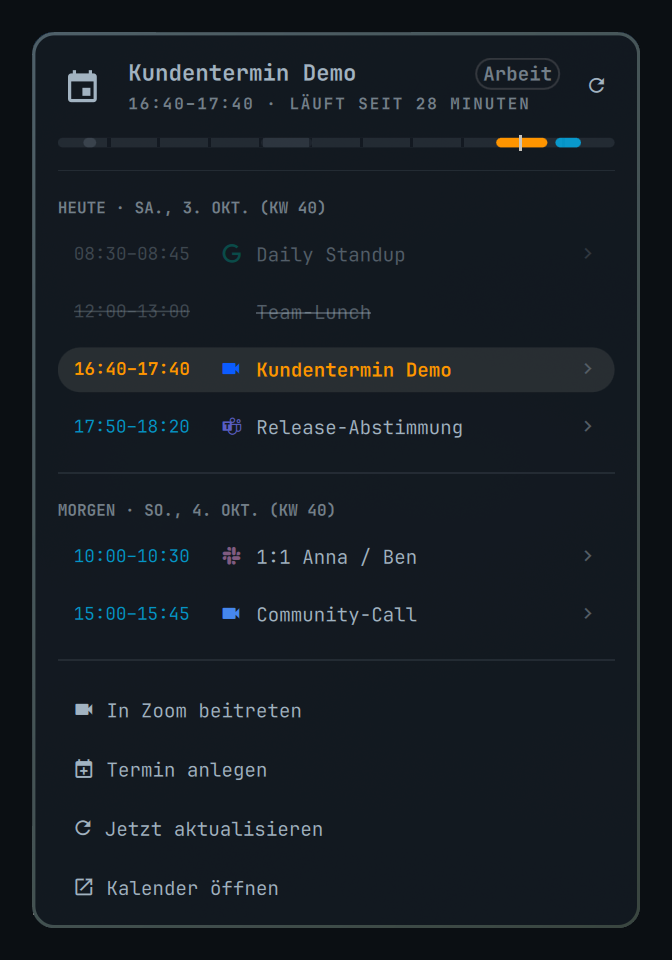
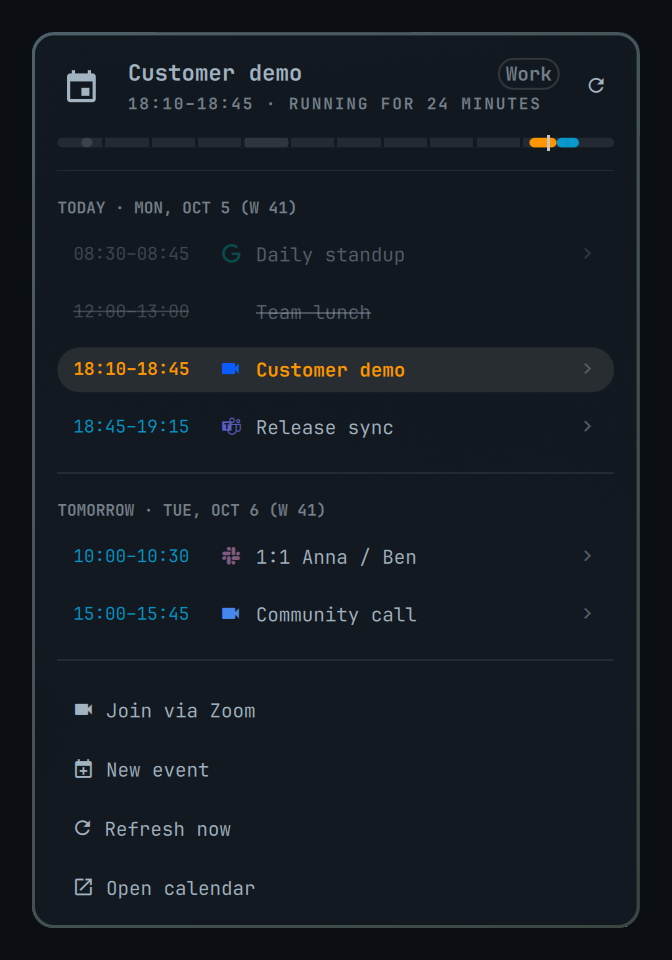
Screenshots: englische Oberfläche, ein stimmiger Zeitplan (#68)
Leiste, Agenda und Alarm neu aufgenommen, in einer Sitzung mit einem
synthetischen Zeitplan: Die Leiste zeigt um 18:34 "Customer demo" als
laufend, die Agenda im selben Moment dieselben Termine, der Alarm um
18:44:05 "in 55 s" für die nächste Zeile der Agenda, "Release sync
18:45-19:15". preview.png ist aus denselben Aufnahmen zusammengesetzt.
Alle Termine sind erfunden; der Alarm wurde mit einem synthetischen
Payload aufgerufen, der echte Alarmpfad lief nicht.

diff --git a/README.md b/README.md
@@ -42,13 +42,14 @@ around it.
 
 ## Screenshots
 
-The bar entry while a meeting is running, and the agenda popup (all meetings shown are made up):
+The bar entry while a meeting is running, and the agenda popup at the same moment (English UI;
+all meetings shown are made up):
 
 ![Bar entry](docs/screenshots/bar.png)
 
 ![Agenda popup](docs/screenshots/agenda.png)
 
-The fullscreen alert, a minute before the next meeting:
+The fullscreen alert for the next meeting in that agenda, a minute before it starts:
 
 ![Fullscreen alert](docs/screenshots/alert.png)
 
